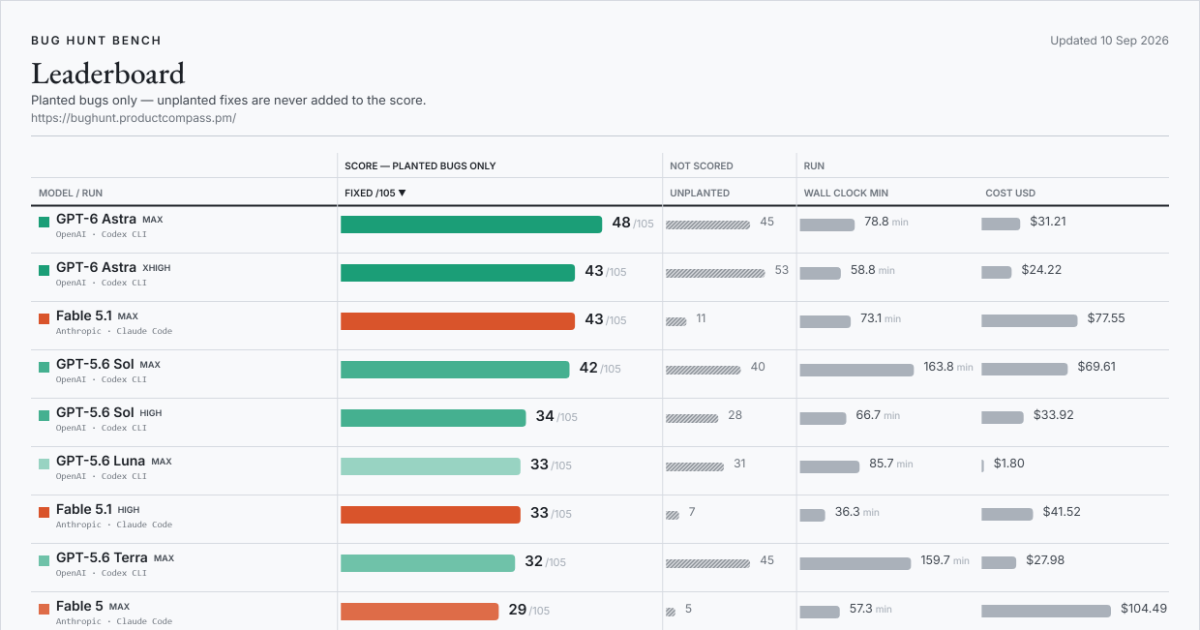
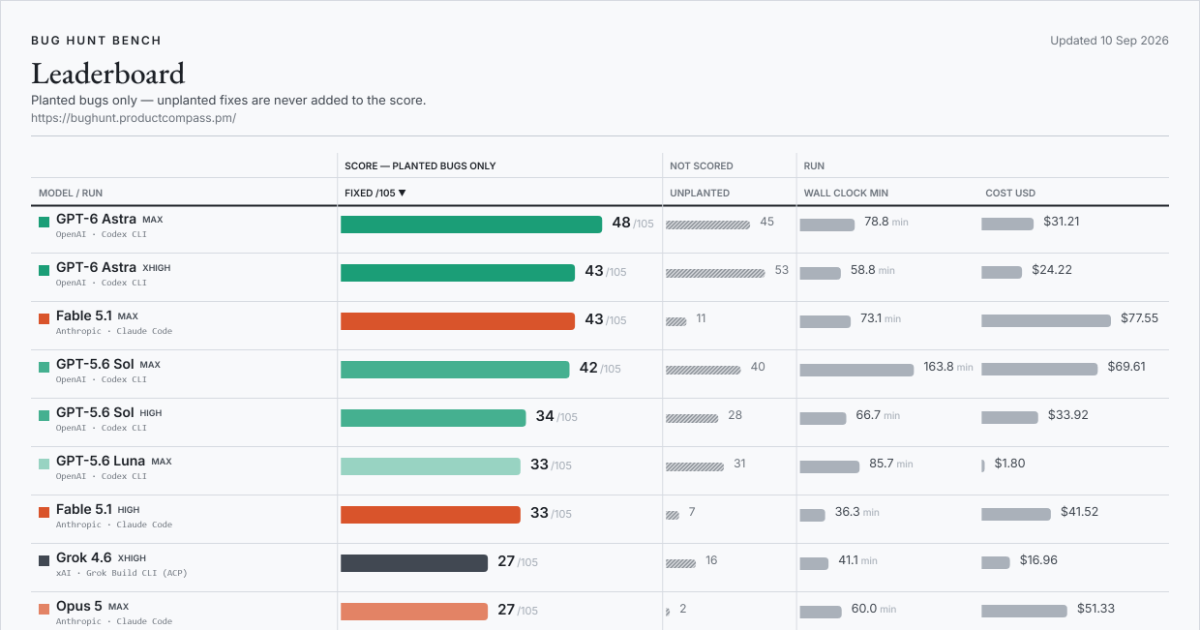
bug hunt bench: DeepSeek V4-Pro (max effort, DeepSeek API) (16/105)

diff --git a/index.html b/index.html
@@ -22,14 +22,14 @@
 <meta property="og:title" content="Bug Hunt Bench — frontier coding models against real planted bugs">
 <meta property="og:description" content="A blind-graded benchmark of frontier coding models on real bugs planted in two production codebases. The score counts planted bugs only; extra fixes are tracked separately and never added.">
 <meta property="og:url" content="https://bughunt.productcompass.pm/">
-<meta property="og:image" content="https://bughunt.productcompass.pm/og-image.png?v=2026-09-10-1f9d23cf">
+<meta property="og:image" content="https://bughunt.productcompass.pm/og-image.png?v=2026-09-10-894b6946">
 <meta property="og:image:width" content="1200">
 <meta property="og:image:height" content="630">
 <meta property="og:image:alt" content="Bug Hunt Bench leaderboard">
 <meta name="twitter:card" content="summary_large_image">
 <meta name="twitter:title" content="Bug Hunt Bench — frontier coding models against real planted bugs">
 <meta name="twitter:description" content="A blind-graded benchmark of frontier coding models on real bugs planted in two production codebases. The score counts planted bugs only.">
-<meta name="twitter:image" content="https://bughunt.productcompass.pm/og-image.png?v=2026-09-10-1f9d23cf">
+<meta name="twitter:image" content="https://bughunt.productcompass.pm/og-image.png?v=2026-09-10-894b6946">
 <meta name="twitter:creator" content="@PawelHuryn">
 
 <link rel="icon" href="/assets/favicon.svg" type="image/svg+xml">

diff --git a/method.html b/method.html
@@ -20,14 +20,14 @@
 <meta property="og:title" content="Method, caveats and definitions — Bug Hunt Bench">
 <meta property="og:description" content="How Bug Hunt Bench is run and graded, what the board cannot tell you, and what every column on it means.">
 <meta property="og:url" content="https://bughunt.productcompass.pm/method">
-<meta property="og:image" content="https://bughunt.productcompass.pm/og-image.png?v=2026-09-10-1f9d23cf">
+<meta property="og:image" content="https://bughunt.productcompass.pm/og-image.png?v=2026-09-10-894b6946">
 <meta property="og:image:width" content="1200">
 <meta property="og:image:height" content="630">
 <meta property="og:image:alt" content="Bug Hunt Bench leaderboard">
 <meta name="twitter:card" content="summary_large_image">
 <meta name="twitter:title" content="Method, caveats and definitions — Bug Hunt Bench">
 <meta name="twitter:description" content="How Bug Hunt Bench is run and graded, what the board cannot tell you, and what every column on it means.">
-<meta name="twitter:image" content="https://bughunt.productcompass.pm/og-image.png?v=2026-09-10-1f9d23cf">
+<meta name="twitter:image" content="https://bughunt.productcompass.pm/og-image.png?v=2026-09-10-894b6946">
 <meta name="twitter:creator" content="@PawelHuryn">
 
 <link rel="icon" href="/assets/favicon.svg" type="image/svg+xml">

diff --git a/results/waves.md b/results/waves.md
@@ -674,7 +674,7 @@ an otherwise idle machine, judged blind by Grok 4.6 (non-sibling). Preflight con
 - **No first-ever kills.** The never-fixed count stays at 39.
 - Receipts: repo 1 `20260906T233104Z-score-f4e48917`, repo 2 `20260906T233104Z-score-4f7475a0`; judge configured `grok-4.6`, served `grok-4.6` / `grok-4.6`.
 
-## Sep 10 — DeepSeek V4.1 Flash on DeepSeek's own API, at `max` and `high`
+## Sep 10 — DeepSeek on its own API: V4.1 Flash at `max` and `high`, and V4-Pro at `max`
 
 DeepSeek's newest Flash generation, run the day the arm was built. Two things separate this row from the three
 DeepSeek rows already on the board: it ran on **DeepSeek's own Anthropic-compatible endpoint** rather than through
@@ -738,3 +738,43 @@ The same arm one tier down, run straight after `max` on the same endpoint and th
   against zero of each at `max`. At n=1 per tier that is a handful of bugs, not a property of the tier.
 - **No first-ever kills** at either tier. The never-fixed count stays at **39**.
 - Receipts: repo 1 `20260910T110628Z-score-a675eb58`, repo 2 `20260910T110628Z-score-ccbd08ed`.
+
+### The older flagship, on the same first-party path: V4-Pro at `max`
+
+DeepSeek serves exactly two model ids on its own API, and the other one is V4-Pro (model version
+V4-Pro-0813) — the previous flagship, and already on this board from Aug 1 through OpenRouter at an inert
+default effort. Running it here puts the two DeepSeek generations on the same endpoint, the same day, with
+a dial in front of both.
+
+| Arm | Path | Effort | Fixed /105 | Repo 1 /45 | Repo 2 /60 | Genuine extras | Wall | Cost |
+|---|---|---|--:|--:|--:|--:|--:|--:|
+| **DeepSeek V4.1 Flash** | DeepSeek API | max | **24** | 14 | 10 | 7 | 42.6 min | $1.08 |
+| **DeepSeek V4.1 Flash** | DeepSeek API | high | **19** | 9 | 10 | 4 | 26.1 min | $0.31 |
+| **DeepSeek V4-Pro** | DeepSeek API | max | **16** | 8 | 8 | 4 | 37.2 min | $1.89 |
+| DeepSeek V4-Pro | OpenRouter | default (inert) | 10 | 5 | 5 | 1 | 27.6 min | $5.54 |
+
+- **The newer Flash beats the older Pro flagship at every tier tried, and costs less doing it.** Flash at
+  `max` scores 24 to Pro's 16 for 57% of the money; Flash at `high` scores 19 for 16% of it. On this bench
+  the generation gap is worth more than the model class.
+- **Pro is not simply a weaker Flash, though.** Of its 16 fixes, 14 are also in Flash-max's 24 — it
+  contributes exactly **2** bugs Flash-max missed. Whatever Pro is better at, this bench barely sees it.
+- **The first-party path is worth 6 fixes to Pro** over its own OpenRouter row (16 vs 10), on the same
+  model version. Some of that is the effort dial and some is the serving path; one run each cannot say how
+  it splits.
+- **Its effort label is `first_party`, not `verified`, and that is deliberate.** A high-vs-max thinking
+  sweep on Pro itself came out **inconclusive at n=3**: means 51.1K vs 85.1K characters, but a between-level
+  ratio of 1.66x against a worst within-level spread of 1.78x, with the two ranges overlapping. The
+  identical sweep on V4.1 Flash the same hour was cleanly disjoint. Same vendor, same endpoint, same hour,
+  two different answers — which is the whole reason a magnitude claim is not allowed to travel from one
+  model to another on a shared path. The path-level facts still hold for both: the endpoint 400-rejects an
+  invented tier, and the served model id is read back on every gate call.
+- **Read the served-model check as load-bearing, not ceremony.** DeepSeek's own pricing page says the
+  `deepseek-v4-pro` id starts routing to V4.1 Flash on **2026-09-14**. This run is 09-10 and every gate call
+  read back `deepseek-v4-pro`, so this row measures Pro. After that date the same arm would quietly become a
+  Flash arm.
+- **The cost is a bill with an asterisk, stated on the row.** $1.89 is a real prepaid-credits delta for the
+  arm; the per-repo split is that bill allocated by each leg's token value at list, because a runner bug
+  metered the individual legs against the wrong account. Both metrics rows carry the correction.
+- **No first-ever kills.** The never-fixed count stays at **39**.
+- Receipts: repo 1 `20260910T123108Z-score-45be0cf5`, repo 2 `20260910T123108Z-score-11df16a8`; effort
+  evidence in [effort-dial-probes/20260910-dsv4pro-deepseek-effort.txt](effort-dial-probes/20260910-dsv4pro-deepseek-effort.txt).

diff --git a/README.md b/README.md
@@ -9,7 +9,7 @@ If the numbers save you a benchmark run of your own, **star this repo** — that
 <!-- leaderboard:start -->
 ![Bug Hunt Bench leaderboard, the featured runs, updated Sep 10, 2026](assets/leaderboard.png?v=2026-09-10)
 
-**Updated Sep 10, 2026 · 56 scored runs · 23 models · 39 of 105 bugs have never been fixed by any model.**
+**Updated Sep 10, 2026 · 57 scored runs · 23 models · 39 of 105 bugs have never been fixed by any model.**
 
 **Current leader:** GPT-6 Astra at `max` effort — **48 / 105** (24/45 on repo 1, 24/60 on repo 2).
 
@@ -54,18 +54,19 @@ If the numbers save you a benchmark run of your own, **star this repo** — that
 | 35 | Grok 4.5 | Grok Build CLI (ACP) | high | **17** | 5 | 12 | 10 | 28 min | $8.50 floor | 2026-08-06 |
 | 36 | Muse Spark 1.2 | Claude Code / Meta API | xhigh | **17** | 6 | 11 | 12 | 36 min | $13.99 | 2026-08-06 |
 | 37 | Ox Alpha (stealth) | Claude Code / OpenRouter | default | **16** | 8 | 8 | 3 | 59 min | free | 2026-08-25 |
-| 38 | Gemini 3.7 Flash | Antigravity CLI | high | **16** | 4 | 12 | 2 | 23 min | $6.36 | 2026-08-28 |
-| 39 | GPT-5.6 Terra | Codex CLI | medium | **15** | 4 | 11 | 6 | 20 min | $3.87 | 2026-08-27 |
-| 40 | Grok 4.6 | Grok Build CLI (ACP) | low | **15** | 6 | 9 | 9 | 18 min | $4.14 floor | 2026-08-27 |
-| 41 | DeepSeek V4-Flash | Claude Code / OpenRouter | default | **14** | 6 | 8 | 0 | 48 min | $1.52 bill | 2026-08-01 |
-| 42 | Muse Spark 1.2 | Claude Code / OpenRouter | default | **14** | 3 | 11 | 3 | 65 min | $19.52 bill | 2026-08-06 |
-| 43 | GPT-5.6 Luna | Codex CLI | high | **13** | 5 | 8 | 22 | 64 min | $0.57 | 2026-07-31 |
-| 44 | GLM-5.3 Flash | Claude Code / OpenRouter | default | **13** | 6 | 7 | 4 | 57 min | $0.79 bill | 2026-08-27 |
-| 45 | DeepSeek V4-Pro | Claude Code / OpenRouter | default | **10** | 5 | 5 | 1 | 28 min | $5.54 bill | 2026-08-01 |
-| 46 | GPT-5.6 Luna | Codex CLI | medium | **9** | 5 | 4 | 5 | 15 min | $0.33 | 2026-08-27 |
-| 47 | Sonnet 5 | Claude Code | high | **9** | 1 | 8 | 4 | 33 min | $15.12 | 2026-07-26 |
-| 48 | Opus 4.8 | Claude Code | high | **9** | 2 | 7 | 1 | 35 min | $19.35 | 2026-07-26 |
-| 49 | GPT-5.6 Luna | Codex CLI | low | **4** | 0 | 4 | 1 | 6 min | $0.10 | 2026-08-27 |
+| 38 | DeepSeek V4-Pro | Claude Code / DeepSeek API | max | **16** | 8 | 8 | 4 | 37 min | $1.89 bill | 2026-09-10 |
+| 39 | Gemini 3.7 Flash | Antigravity CLI | high | **16** | 4 | 12 | 2 | 23 min | $6.36 | 2026-08-28 |
+| 40 | GPT-5.6 Terra | Codex CLI | medium | **15** | 4 | 11 | 6 | 20 min | $3.87 | 2026-08-27 |
+| 41 | Grok 4.6 | Grok Build CLI (ACP) | low | **15** | 6 | 9 | 9 | 18 min | $4.14 floor | 2026-08-27 |
+| 42 | DeepSeek V4-Flash | Claude Code / OpenRouter | default | **14** | 6 | 8 | 0 | 48 min | $1.52 bill | 2026-08-01 |
+| 43 | Muse Spark 1.2 | Claude Code / OpenRouter | default | **14** | 3 | 11 | 3 | 65 min | $19.52 bill | 2026-08-06 |
+| 44 | GPT-5.6 Luna | Codex CLI | high | **13** | 5 | 8 | 22 | 64 min | $0.57 | 2026-07-31 |
+| 45 | GLM-5.3 Flash | Claude Code / OpenRouter | default | **13** | 6 | 7 | 4 | 57 min | $0.79 bill | 2026-08-27 |
+| 46 | DeepSeek V4-Pro | Claude Code / OpenRouter | default | **10** | 5 | 5 | 1 | 28 min | $5.54 bill | 2026-08-01 |
+| 47 | GPT-5.6 Luna | Codex CLI | medium | **9** | 5 | 4 | 5 | 15 min | $0.33 | 2026-08-27 |
+| 48 | Sonnet 5 | Claude Code | high | **9** | 1 | 8 | 4 | 33 min | $15.12 | 2026-07-26 |
+| 49 | Opus 4.8 | Claude Code | high | **9** | 2 | 7 | 1 | 35 min | $19.35 | 2026-07-26 |
+| 50 | GPT-5.6 Luna | Codex CLI | low | **4** | 0 | 4 | 1 | 6 min | $0.10 | 2026-08-27 |
 
 Extras are real, unplanted defects a model fixed on the way; they are counted and never added to the score. Costs are token estimates at published list rates unless tagged **bill** (an actual invoice or credits delta) or **floor** (a reconstructed lower bound). `default` effort means the serving path had no working effort dial; *ran lower* marks a run whose CLI quietly replaced the requested tier. Wall clock is repo 1 plus repo 2 agent time, dependency install excluded.
 7 superseded re-runs stay in the CSVs and on the [live board](https://bughunt.productcompass.pm/?preset=all) but are left off this table.

diff --git a/results/effort-dial-probes/README.md b/results/effort-dial-probes/README.md
@@ -12,6 +12,7 @@ see grok-4.5 below.
 
 | Date | Model | Serving path | Verdict | File |
 |---|---|---|---|---|
+| 2026-09-10 | deepseek-v4-pro (V4-Pro-0813) | DeepSeek's own Anthropic-compatible API, `output_config.effort` (same path as the Flash row below) | **INCONCLUSIVE at n=3** — high 36623–65112 vs max 60433–102105 think-chars, means 51141 vs 85070, between-level 1.66x against a worst within-level spread of 1.78x, ranges OVERLAP → both Pro rows are `first_party`, NOT `verified`. The path-level facts still hold (enum 400-validated, no silent clamp), and the served model id is read back on every gate call because this id starts routing to V4.1 Flash on 2026-09-14. Same sweep on deepseek-flash the same hour came out DISJOINT — a magnitude claim does not travel between models | `20260910-dsv4pro-deepseek-effort.txt` |
 | 2026-09-10 | deepseek-flash (V4.1 Flash) | DeepSeek's own Anthropic-compatible API, `output_config.effort` (what Claude Code actually sends — wire-captured) | **ACTIVE, `max` is the ceiling** — high 23960–35104 vs max 59923–96590 think-chars (n=3), disjoint, 2.74x; enum is 400-VALIDATED so no silent clamp; `none` rejected on this path; omitted-default is not `high`; `ultra` accepted but straddles both tiers, unresolved. Contrast the SAME model on OpenRouter: `reasoning.effort` inert (1.34x between vs 9.13x within), `thinking.budget_tokens` binds only 1024→8192 — and neither is what the CLI sends | `20260910-dsv41flash-deepseek-effort.txt` |
 | 2026-09-04 | gpt-6-astra | Codex CLI 0.153.0 (`model_reasoning_effort=max\|xhigh\|high\|medium`) | **ACCEPTED** — each tier requested explicitly and echoed back in the CLI's own session header (`reasoning effort: <tier>`) before the leg started; a documented first-party enum, not probed for magnitude → rows are `first_party` | `20260903-gpt6astra-codex-effort-max.txt`, `20260904-gpt6astra-codex-effort-{xhigh,high,medium}.txt` |
 | 2026-09-05 | gpt-6-astra | Codex CLI 0.153.0 (`model_reasoning_effort=low`) | **ACCEPTED** — the fifth tier, requested explicitly and echoed back in the CLI's own session header (`reasoning effort: low`) before the leg started; same first-party enum as the four tiers above, not probed for magnitude → row is `first_party` | `20260905-gpt6astra-codex-effort-low.txt` |
